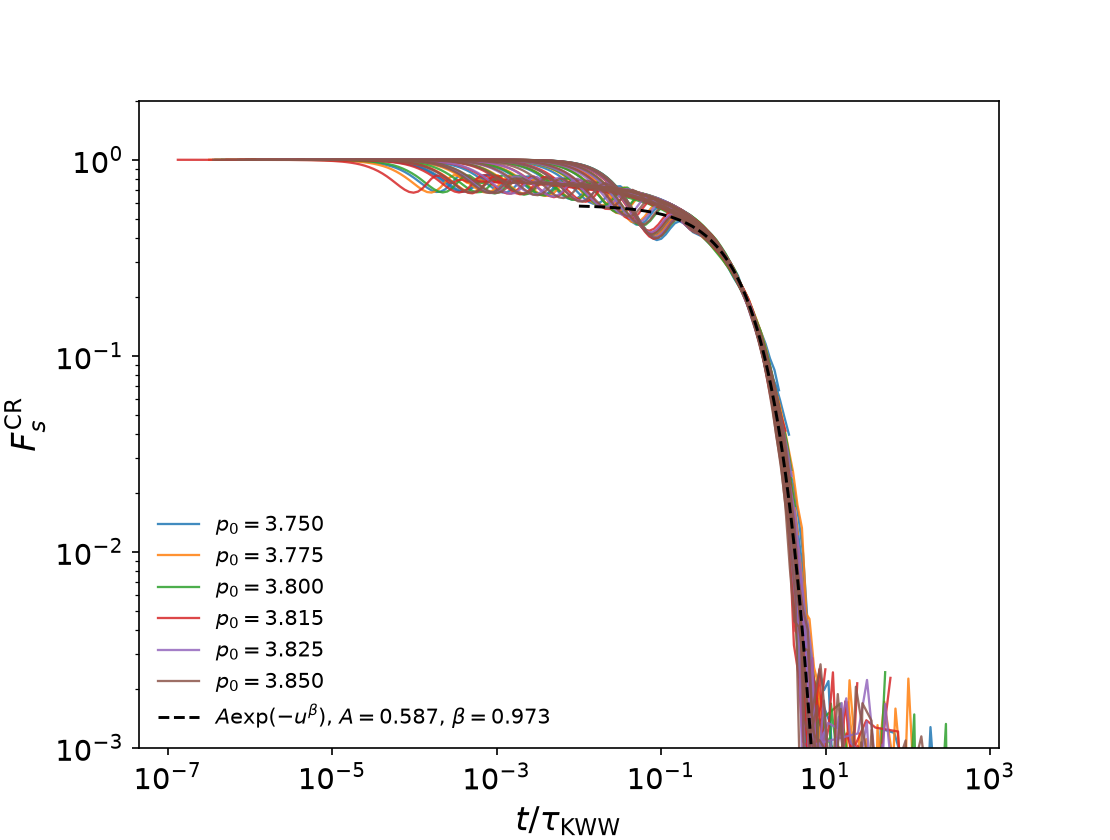
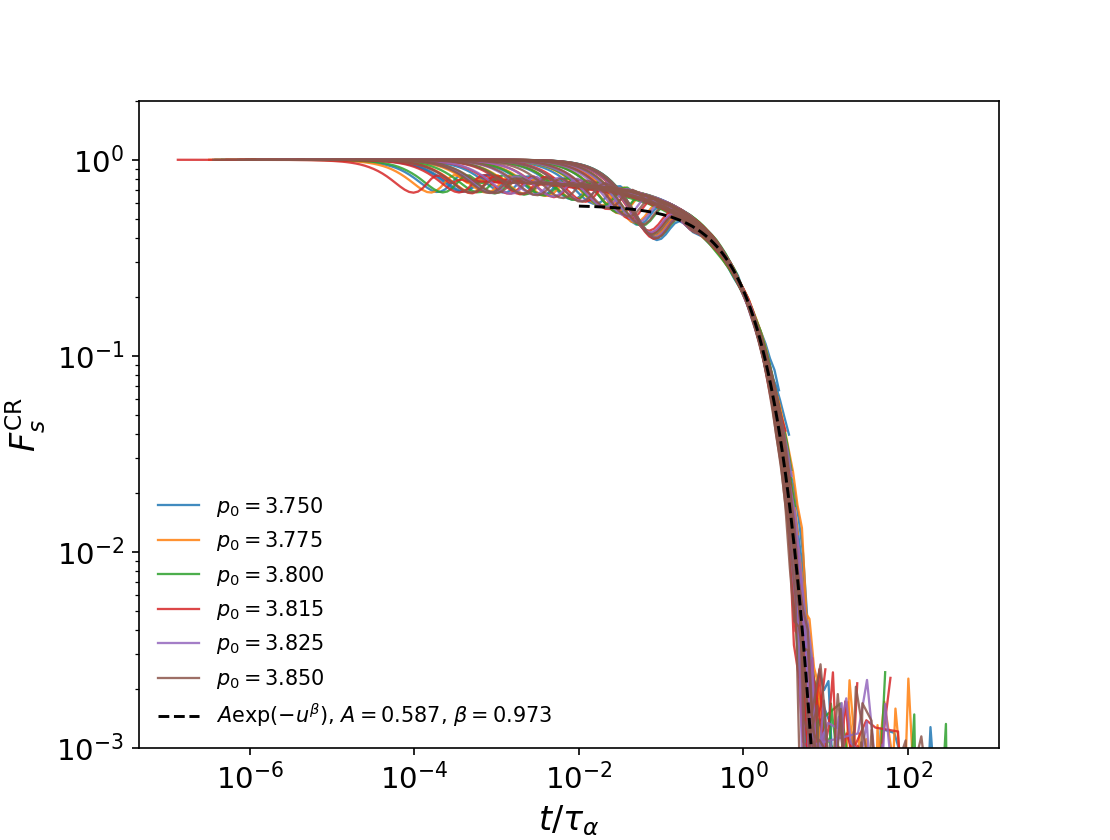
Label KWW figure axes as tau_alpha.
The plotted time scale is the same KWW tau; collapse and tau-vs-T figures now call it tau_alpha.

diff --git a/glassyDynamicsProject/analyseScripts/vertexTauAlpha/plot_vertex_fs_kww.py b/glassyDynamicsProject/analyseScripts/vertexTauAlpha/plot_vertex_fs_kww.py
@@ -51,6 +51,15 @@ def _combined_axes(fig_w: float = 13.6, fig_h: float = 8.0):
     return fig, axes
 
 
+def fitted_tail(g: pd.DataFrame, r) -> pd.DataFrame:
+    """Points used in the fit. Prefer the stored per-curve tail start."""
+    g = g.sort_values("t")
+    t0 = getattr(r, "t_tail_start", float("nan"))
+    if t0 == t0:
+        return g[(g["t"] >= float(t0)) & (g["Fs_mean"] >= float(r.fs_min))]
+    return tail_after_plateau(g, float(r.fs_min), float(r.fs_max))
+
+
 def kww(t, A, beta, tau):
     t = np.asarray(t, dtype=float)
     tau = max(float(tau), 1e-30)
@@ -122,11 +131,18 @@ def main() -> None:
     parser = argparse.ArgumentParser(description="Plot KWW HMC fit and t/tau collapse.")
     parser.add_argument("--share", choices=("global", "per_p0", "independent"), default="global")
     parser.add_argument("--input", type=Path, default=OUTDIR / "Fs_combined_mean.csv")
+    parser.add_argument(
+        "--outdir",
+        type=Path,
+        default=None,
+        help="where kww_* plots are written (default: production Fs directory)",
+    )
     args = parser.parse_args()
 
-    OUTDIR.mkdir(parents=True, exist_ok=True)
+    outdir = args.outdir if args.outdir is not None else OUTDIR
+    outdir.mkdir(parents=True, exist_ok=True)
     fs = pd.read_csv(args.input)
-    tau_path = OUTDIR / f"kww_{args.share}_tau.csv"
+    tau_path = outdir / f"kww_{args.share}_tau.csv"
     tau_df = pd.read_csv(tau_path)
     cmap = plt.get_cmap("coolwarm")
 
@@ -145,7 +161,7 @@ def main() -> None:
             t = g["t"].to_numpy(float)
             y = g["Fs_mean"].to_numpy(float)
             ax.plot(t, y, color=color, lw=1.0, alpha=0.85)
-            piece = tail_after_plateau(g, float(r.fs_min), float(r.fs_max))
+            piece = fitted_tail(g, r)
             if not piece.empty:
                 ax.plot(piece["t"], piece["Fs_mean"], color=color, lw=2.0)
             if t.size:
@@ -158,7 +174,7 @@ def main() -> None:
             ax.set_xlabel(r"$\Delta t$", fontsize=FS_LABEL)
         if col == 0:
             ax.set_ylabel(r"$F_s^{\mathrm{CR}}$", fontsize=FS_LABEL)
-    png = OUTDIR / f"kww_{args.share}_overlay.png"
+    png = outdir / f"kww_{args.share}_overlay.png"
     fig.savefig(png, dpi=150)
     plt.close(fig)
     print(f"wrote {png}")
@@ -194,10 +210,10 @@ def main() -> None:
             ax.set_ylim(1e-3, 2.0)
             row, col = divmod(i, 3)
             if row == 1:
-                ax.set_xlabel(r"$t/\tau_{\mathrm{KWW}}$", fontsize=FS_LABEL)
+                ax.set_xlabel(r"$t/\tau_\alpha$", fontsize=FS_LABEL)
             if col == 0:
                 ax.set_ylabel(ylabel, fontsize=FS_LABEL)
-        out = OUTDIR / f"kww_{args.share}_collapse{suffix}_by_p0.png"
+        out = outdir / f"kww_{args.share}_collapse{suffix}_by_p0.png"
         fig.savefig(out, dpi=150)
         plt.close(fig)
         print(f"wrote {out}")
@@ -233,11 +249,11 @@ def main() -> None:
         ax.set_xscale("log")
         ax.set_yscale("log")
         ax.set_ylim(1e-3, 2.0)
-        ax.set_xlabel(r"$t/\tau_{\mathrm{KWW}}$", fontsize=FS_LABEL)
+        ax.set_xlabel(r"$t/\tau_\alpha$", fontsize=FS_LABEL)
         ax.set_ylabel(ylabel, fontsize=FS_LABEL)
         ax.tick_params(labelsize=FS_TICK)
         ax.legend(fontsize=10, frameon=False, loc="lower left")
-        out = OUTDIR / f"kww_{args.share}_collapse{suffix}.png"
+        out = outdir / f"kww_{args.share}_collapse{suffix}.png"
         fig.savefig(out, dpi=150)
         plt.close(fig)
         print(f"wrote {out}")
@@ -250,7 +266,7 @@ def main() -> None:
     for i, p0 in enumerate(P0_ORDER):
         ax = axes[i]
         sub = tau_df[np.isclose(tau_df["p0"], p0)].sort_values("T")
-        ax.loglog(sub["T"], sub["tau_kww"], "o-", color="C0", label=r"$\tau_{\mathrm{KWW}}$")
+        ax.loglog(sub["T"], sub["tau_kww"], "o-", color="C0", label=r"$\tau_\alpha$")
         ax.loglog(sub["T"], sub["tau_1e"], "s--", color="C1", label=r"$1/e$")
         row, col = divmod(i, 3)
         if row == 1:
@@ -259,7 +275,7 @@ def main() -> None:
             ax.set_ylabel(r"$\tau_\alpha$", fontsize=FS_LABEL)
         if i == 0:
             ax.legend(fontsize=11, frameon=False)
-    tau_png = OUTDIR / f"kww_{args.share}_tau_vs_T.png"
+    tau_png = outdir / f"kww_{args.share}_tau_vs_T.png"
     fig.savefig(tau_png, dpi=150)
     plt.close(fig)
     print(f"wrote {tau_png}")
@@ -274,14 +290,14 @@ def main() -> None:
         ax.set_ylabel(r"$\beta$", fontsize=FS_LABEL)
         ax.legend(fontsize=10, frameon=False)
         ax.tick_params(labelsize=FS_TICK)
-        bpng = OUTDIR / f"kww_{args.share}_beta_vs_T.png"
+        bpng = outdir / f"kww_{args.share}_beta_vs_T.png"
         fig.savefig(bpng, dpi=150)
         plt.close(fig)
         print(f"wrote {bpng}")
 
     rms = collapse_rms(fs, tau_df)
     rms["share"] = args.share
-    rms_path = OUTDIR / f"kww_{args.share}_collapse_rms.csv"
+    rms_path = outdir / f"kww_{args.share}_collapse_rms.csv"
     rms.to_csv(rms_path, index=False)
     print(f"wrote {rms_path}")
     print(rms.to_string(index=False))

diff --git a/glassyDynamicsProject/analyseScripts/vertexTauAlpha/propose_vertex_production_kww_fill.py b/glassyDynamicsProject/analyseScripts/vertexTauAlpha/propose_vertex_production_kww_fill.py
@@ -212,7 +212,7 @@ def plot_grid(kww_rows, points, outpath: Path):
             c="0.35",
             s=28,
             zorder=3,
-            label=r"existing $\tau_{\mathrm{KWW}}$",
+            label=r"existing $\tau_\alpha$",
         )
         pp = [p for p in points if match_p0(float(p["p0"]), p0)]
         if pp:
@@ -231,7 +231,7 @@ def plot_grid(kww_rows, points, outpath: Path):
         ax.set_yscale("log")
         ax.set_title(rf"$p_0={p0:.3f}$")
         ax.set_xlabel(r"$T$")
-        ax.set_ylabel(r"$\tau_{\mathrm{KWW}}$")
+        ax.set_ylabel(r"$\tau_\alpha$")
         ax.legend(loc="best", fontsize=7, frameon=False)
     fig.suptitle(
         r"KWW production fill: keep existing $T$, add 9 (hot $\tau=10$ + 3 cold)",
